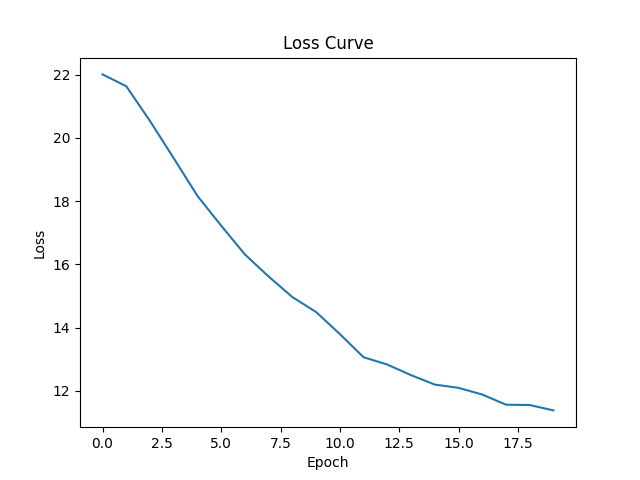
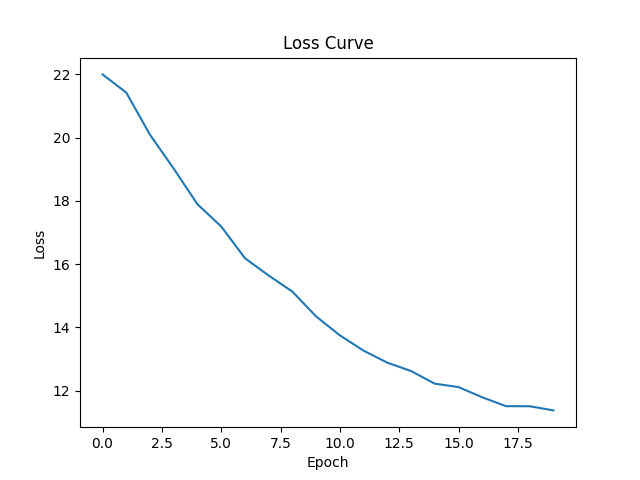
amend

diff --git a/binary+KBert(RNN)/run_kbert_cls.py b/binary+KBert(RNN)/run_kbert_cls.py
@@ -3,7 +3,7 @@ import os
 import random
 import time
 import warnings
-
+import json
 import pandas as pd
 import torch
 import torch.nn as nn
@@ -147,13 +147,13 @@ class BertClassifier(nn.Module):
         self.softmax = nn.Softmax(dim=-1)
         self.focalloss = True
         if self.focalloss:
-            self.criterion = FocalLoss(alpha=[0.55, 0.45], gamma=2, num_classes=args.labels_num, size_average=False)
+            self.criterion = FocalLoss(alpha=[0.6, 0.3, 0.1], gamma=2, size_average=False)
         else:
             self.criterion = nn.CrossEntropyLoss()
         self.use_vm = False if args.no_vm else True
         print("[BertClassifier] use visible_matrix: {}".format(self.use_vm))
 
-    def forward(self, src, postag_ids, label, mask, pos=None, vm=None):
+    def forward(self, src, postag_ids, label, att_mask, pos=None, vm=None):
         """
         Args:
             src: [batch_size x seq_length]
@@ -164,19 +164,31 @@ class BertClassifier(nn.Module):
         if self.args.encoder == "bert":
             if self.args.pretrain:
                 # postag_emb = self.postag_embedding(postag_ids)
-                emb = self.embedding(src, mask, pos)
+                emb = self.embedding(src, att_mask, pos)
                 # emb = emb + postag_emb
             else:
-                emb = self.embedding(src, postag_ids, mask, pos)
+                emb = self.embedding(src, postag_ids, att_mask, pos)
         else:
             emb = self.embedding(src)
         # Encoder.
         if not self.use_vm:
             vm = None
         if self.args.pretrain:
-            output = self.encoder(emb).last_hidden_state
+            if vm is None:
+                mask = (att_mask > 0). \
+                    unsqueeze(1). \
+                    repeat(1, emb.size(1), 1). \
+                    unsqueeze(1)
+                mask = mask.float()
+                mask = (1.0 - mask) * -10000.0
+            else:
+                mask = vm.unsqueeze(1)
+                mask = mask.float()
+                mask = (1.0 - mask) * -10000.0
+
+            output = self.encoder(emb, mask).last_hidden_state
         else:
-            output = self.encoder(emb, mask, vm)
+            output = self.encoder(emb, att_mask, vm)
         # Target.
         # print("output.shape: {}".format(output.shape))
         if not self.cnn:
@@ -370,7 +382,7 @@ def main():
     #             # labels_set.add(label)
     #         except:
     #             pass
-    args.labels_num = 2
+    args.labels_num = 3
     print("labels_num:", args.labels_num)
     for label, count in labels_set.items():
         print("label: %d, count: %d" % (label, count))
